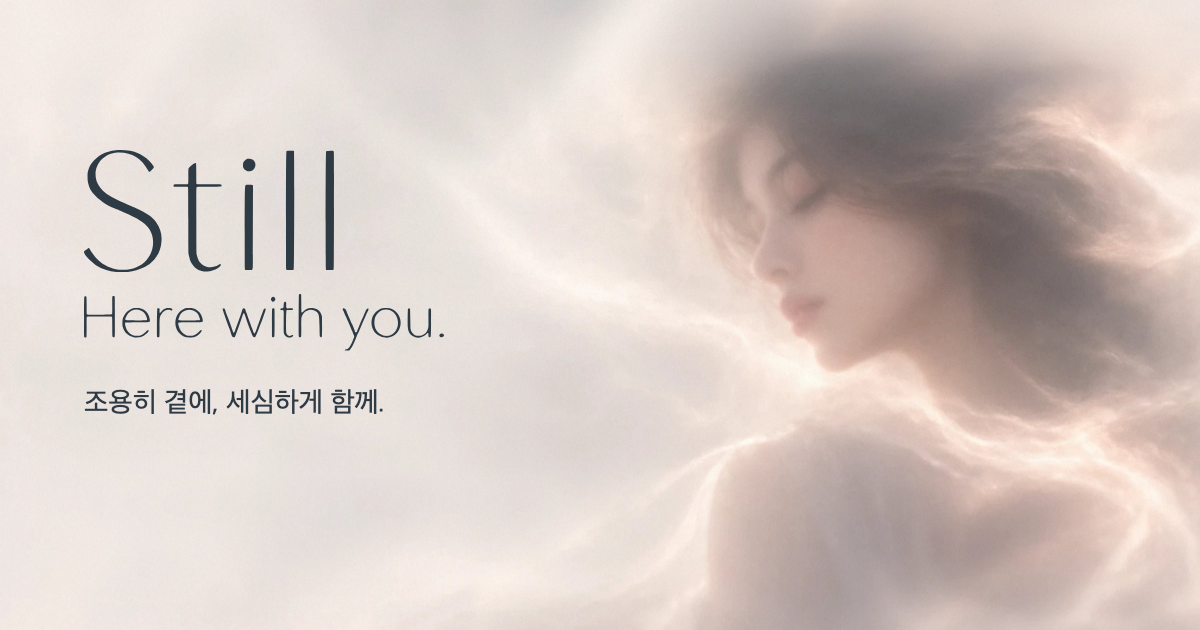
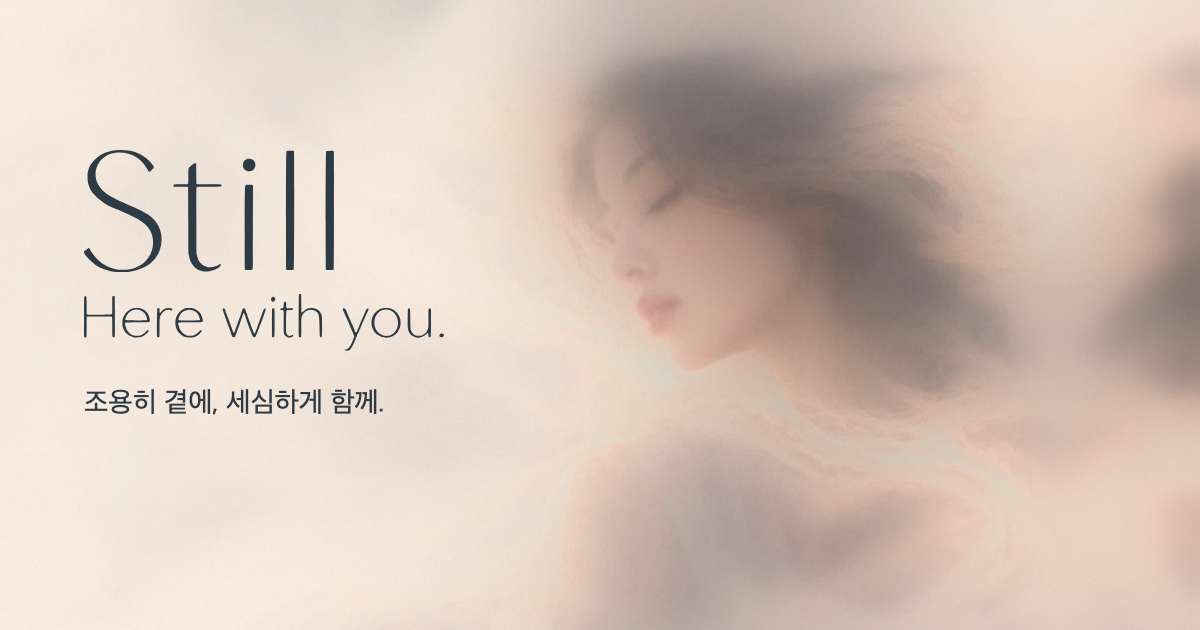
feat: calmer hero art and a bubble-free dialogue over the photo (#1314)
- Hero art: glowing filaments and broad light bands removed, the figure
  shifted 12% left (fog extended on the right), tone warmed to cream.
- The hero dialogue is plain text over the photo: You on the right,
  Still on the left with the answering AI, a hairline marking the
  Claude Code to Codex switch, and a soft light halo for legibility.

diff --git a/site/assets/home.css b/site/assets/home.css
@@ -67,15 +67,17 @@ main > .hero { position: relative; max-width: none; padding: 0; display: grid; a
 
 /* Hero scene: plays over the artwork with no box, like the teaser film. */
 .stage { position: absolute; z-index: 1; right: clamp(1.25rem, 3vw, 3rem); bottom: 1.75rem; width: min(21rem, 26vw); }
-.thread { display: flex; flex-direction: column; gap: .45rem; }
-.thread p { margin: 0; max-width: 88%; padding: .5rem .85rem; border-radius: 1.05rem; font-size: .875rem; line-height: 1.42; }
-.thread .who { display: flex; align-items: center; gap: .4rem; font-size: .75rem; font-weight: 600; opacity: .75; margin-bottom: .1rem; }
-.thread .who i { font-style: normal; font-weight: 500; padding: 0 .45rem; border-radius: 999px; background: rgb(46 58 68 / .08); }
+.thread { display: flex; flex-direction: column; gap: .9rem; text-shadow: 0 0 14px rgb(243 238 233 / .95), 0 0 3px rgb(243 238 233 / .9); }
+.thread p { margin: 0; max-width: 92%; font-size: 1rem; line-height: 1.45; color: var(--ink); }
+.thread .who { display: flex; align-items: center; gap: .45rem; font-size: .75rem; font-weight: 600; letter-spacing: .02em; opacity: .7; margin-bottom: .15rem; }
+.thread .who i { font-style: normal; font-weight: 500; padding: 0 .45rem; border-radius: 999px; background: rgb(255 253 250 / .7); text-shadow: none; }
 .thread .who i.new { background: var(--rose); }
-.t-you { align-self: flex-end; background: rgb(232 199 198 / .84); border-bottom-right-radius: .3rem; }
-.t-still { align-self: flex-start; background: rgb(255 253 250 / .78); border-bottom-left-radius: .3rem; }
+.t-you { align-self: flex-end; text-align: right; }
+.t-you .who { justify-content: flex-end; }
+.t-still { align-self: flex-start; }
 .t-switch { align-self: stretch; max-width: none !important; padding: .2rem 0 !important; text-align: center; font-size: .75rem !important; color: var(--ink); }
-.t-switch span { display: inline-block; padding: .25rem .8rem; border-radius: 999px; background: rgb(255 253 250 / .6); }
+.t-switch span { display: inline-flex; align-items: center; gap: .6rem; }
+.t-switch span::before, .t-switch span::after { content: ""; width: 2.5rem; height: 1px; background: rgb(46 58 68 / .35); }
 
 @media (prefers-reduced-motion: no-preference) {
   .thread p { animation: 20s ease-in-out infinite both; }

diff --git a/site/ko.html b/site/ko.html
@@ -11,7 +11,7 @@
 <meta name="theme-color" content="#f6f4f2">
 <link rel="alternate" hreflang="en" href="./">
 <link rel="preload" href="assets/fonts/figtree-latin-wght-normal.woff2" as="font" type="font/woff2" crossorigin>
-<link rel="stylesheet" href="assets/home.css?v=g4">
+<link rel="stylesheet" href="assets/home.css?v=g5">
 </head>
 <body>
 <a class="skip" href="#main">본문으로 건너뛰기</a>
@@ -28,8 +28,8 @@
 <main id="main">
 <section class="hero" aria-labelledby="hero-title">
   <picture class="hero-art">
-    <source media="(max-width: 720px)" srcset="assets/still-m-mobile.jpg" width="1080" height="1440">
-    <img src="assets/still-m-desktop.jpg" alt="" width="2400" height="1351" fetchpriority="high">
+    <source media="(max-width: 720px)" srcset="assets/still-b-mobile.jpg" width="1080" height="1440">
+    <img src="assets/still-b-desktop.jpg" alt="" width="2400" height="1351" fetchpriority="high">
   </picture>
   <div class="hero-copy">
     <h1 id="hero-title" class="lockup"><span class="sr-only">Still. Here with you.</span><svg class="wm-still" focusable="false" xmlns="http://www.w3.org/2000/svg" viewBox="0 0 1119.810031 547.897567" fill="currentColor" aria-hidden="true"><g transform="translate(-86.114194,621.904865) scale(0.100000,-0.100000)"

diff --git a/site/index.html b/site/index.html
@@ -11,7 +11,7 @@
 <meta name="theme-color" content="#f6f4f2">
 <link rel="alternate" hreflang="ko" href="ko.html">
 <link rel="preload" href="assets/fonts/figtree-latin-wght-normal.woff2" as="font" type="font/woff2" crossorigin>
-<link rel="stylesheet" href="assets/home.css?v=g4">
+<link rel="stylesheet" href="assets/home.css?v=g5">
 </head>
 <body>
 <a class="skip" href="#main">Skip to content</a>
@@ -28,8 +28,8 @@
 <main id="main">
 <section class="hero" aria-labelledby="hero-title">
   <picture class="hero-art">
-    <source media="(max-width: 720px)" srcset="assets/still-m-mobile.jpg" width="1080" height="1440">
-    <img src="assets/still-m-desktop.jpg" alt="" width="2400" height="1351" fetchpriority="high">
+    <source media="(max-width: 720px)" srcset="assets/still-b-mobile.jpg" width="1080" height="1440">
+    <img src="assets/still-b-desktop.jpg" alt="" width="2400" height="1351" fetchpriority="high">
   </picture>
   <div class="hero-copy">
     <h1 id="hero-title" class="lockup"><span class="sr-only">Still. Here with you.</span><svg class="wm-still" focusable="false" xmlns="http://www.w3.org/2000/svg" viewBox="0 0 1119.810031 547.897567" fill="currentColor" aria-hidden="true"><g transform="translate(-86.114194,621.904865) scale(0.100000,-0.100000)"
